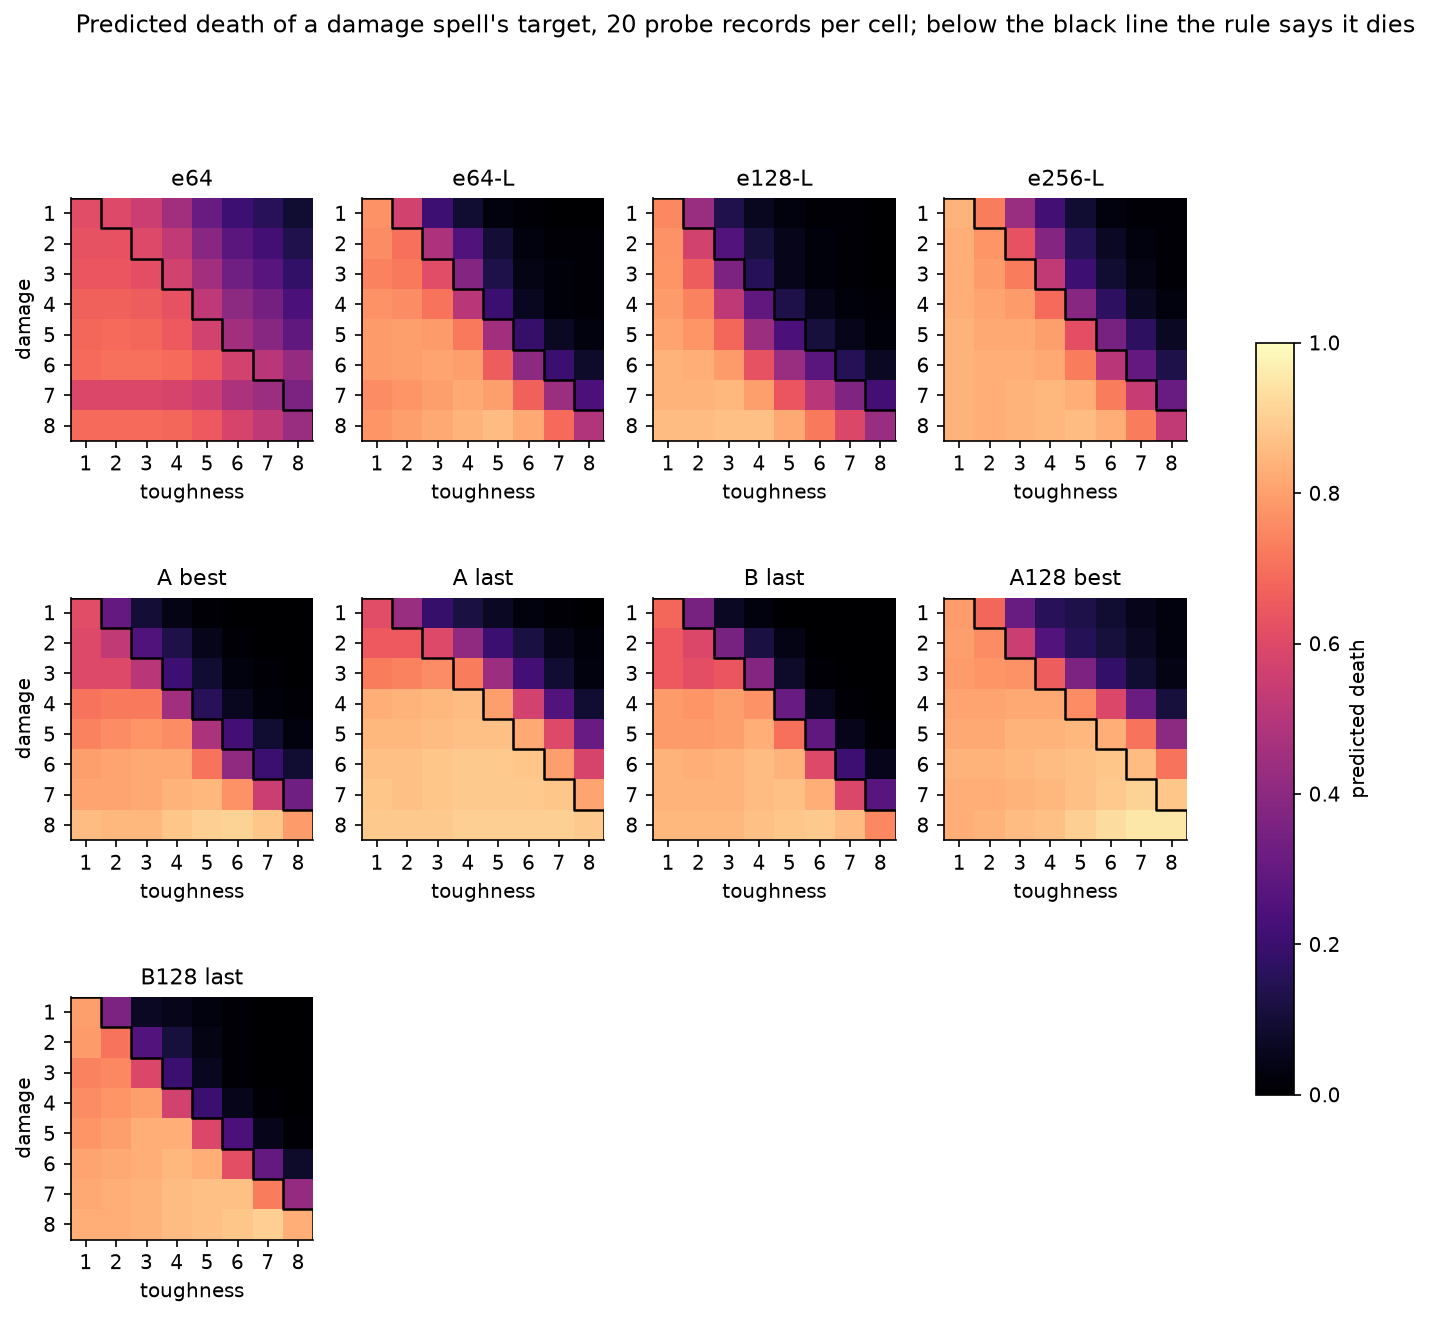
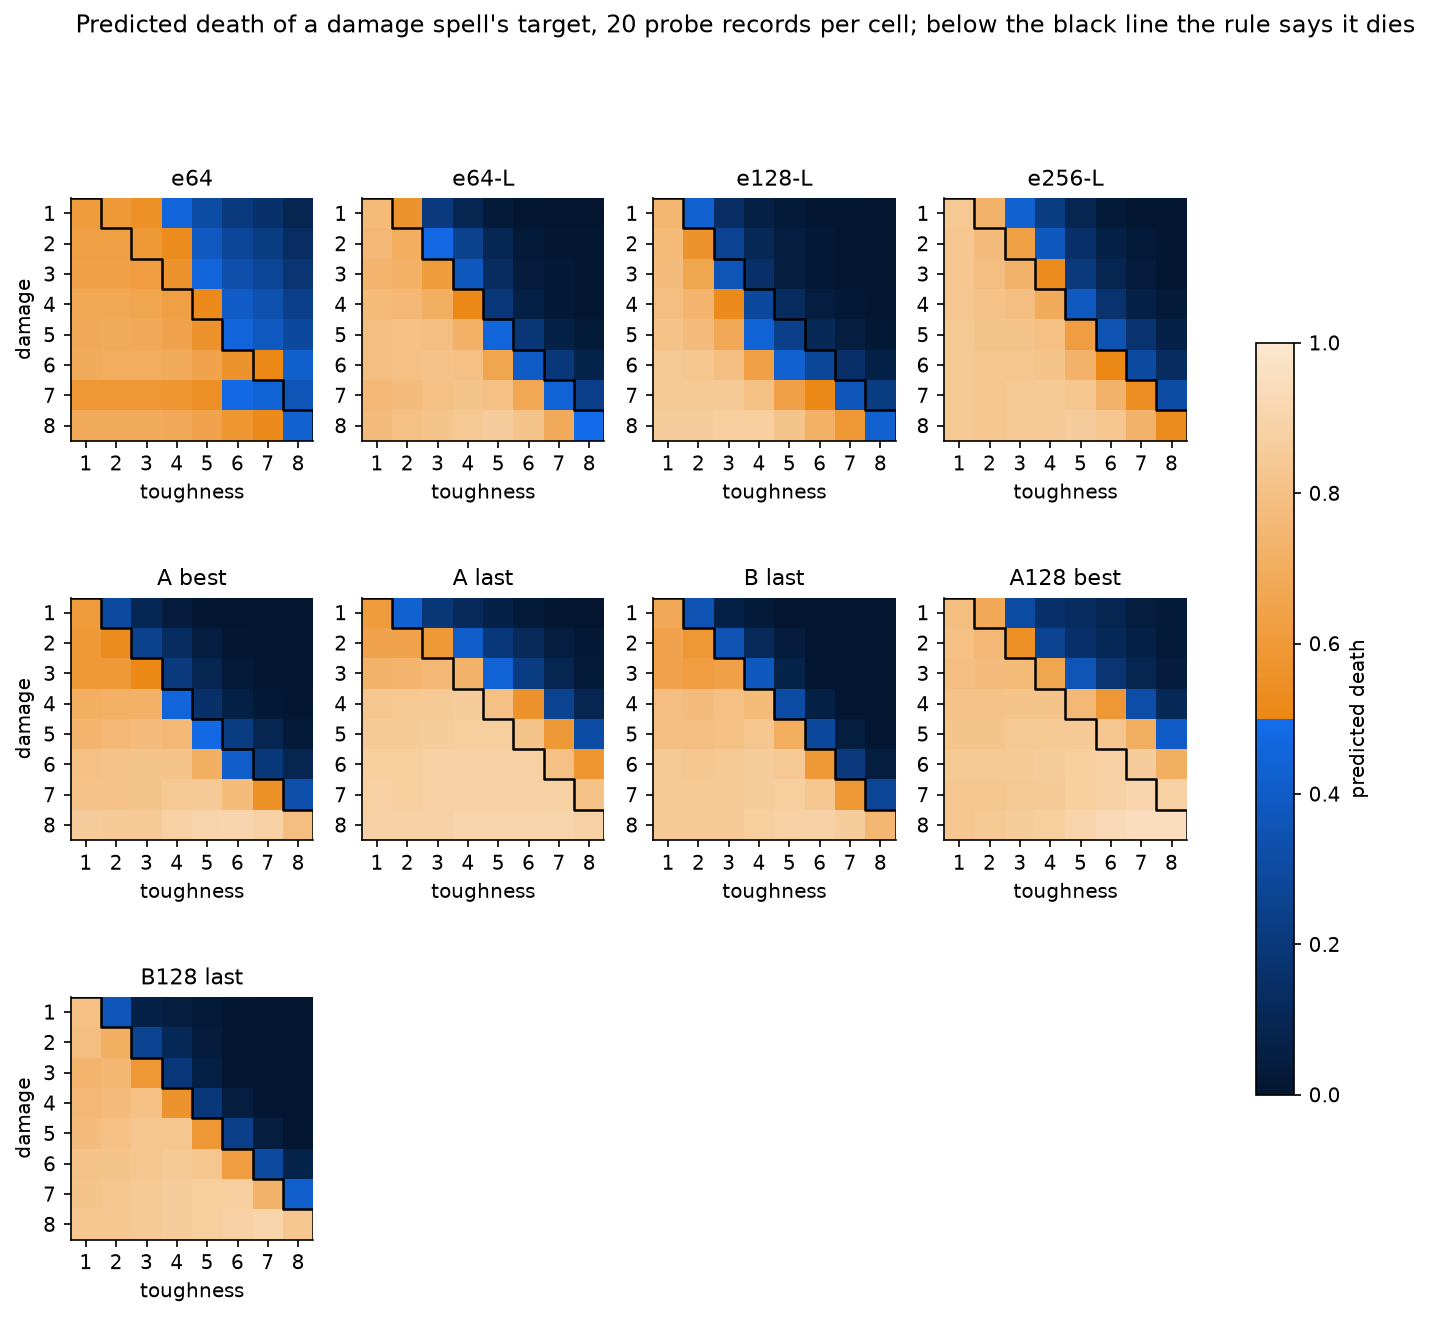
docs(effects): death heatmaps switch hue at one half, blue below and orange above, with brightness rising throughout

diff --git a/scripts/effect_gen2_report/make_charts.py b/scripts/effect_gen2_report/make_charts.py
@@ -87,13 +87,32 @@ def rule_staircase(ax, offset: float = 0.0) -> None:
     ax.plot(xs, ys, color="black", lw=1.2)
 
 
+def _death_colourmap() -> matplotlib.colors.ListedColormap:
+    """Brightness rises steadily from 0 to 1; the hue flips from blue to orange at 0.5.
+
+    The hue break marks the even-odds line at a glance, and the continuous brightness
+    keeps the order of the values readable on either side of it.
+    """
+    import colorsys
+
+    colours = []
+    for v in np.linspace(0, 1, 256):
+        lightness = 0.10 + 0.80 * v
+        hue = 215 / 360 if v < 0.5 else 32 / 360
+        colours.append(colorsys.hls_to_rgb(hue, lightness, 0.85))
+    return matplotlib.colors.ListedColormap(colours, name="death")
+
+
+DEATH_CMAP = _death_colourmap()
+
+
 def colourbar(fig, axes) -> None:
-    sm = matplotlib.cm.ScalarMappable(cmap="magma", norm=matplotlib.colors.Normalize(0, 1))
+    sm = matplotlib.cm.ScalarMappable(cmap=DEATH_CMAP, norm=matplotlib.colors.Normalize(0, 1))
     fig.colorbar(sm, ax=axes, shrink=0.7, label="predicted death")
 
 
 def heatmap(ax, grid: np.ndarray, title: str, xlabel: str, ylabel: str) -> None:
-    ax.imshow(grid, cmap="magma", vmin=0, vmax=1, origin="upper")
+    ax.imshow(grid, cmap=DEATH_CMAP, vmin=0, vmax=1, origin="upper")
     ax.set_xticks(range(8), range(1, 9))
     ax.set_yticks(range(8), range(1, 9))
     ax.set_xlabel(xlabel)

diff --git a/experiments/2026-09-18-effect-model-gen2-improvements-design.md b/experiments/2026-09-18-effect-model-gen2-improvements-design.md
@@ -22,7 +22,7 @@ All the data behind the tables and charts is in [`2026-09-18-effect-model-gen2/`
 
 ![Predicted death of a damage spell's target, by damage and toughness, across the arms and continuation runs](2026-09-18-effect-model-gen2/charts/damage-grids.png)
 
-*Each cell is the predicted death of a damage spell's target, averaged over 20 real records with the spell's damage and the target's toughness edited. The rule says the target dies on and below the black staircase. Arm `e64` trained without copies; every other panel trained with them. Data: `damage_grids.csv`.*
+*Each cell is the predicted death of a damage spell's target, averaged over 20 real records with the spell's damage and the target's toughness edited. Orange cells predict a death more likely than not and blue cells less likely, brighter meaning more likely on both sides. The rule says the target dies on and below the black staircase. Arm `e64` trained without copies; every other panel trained with them. Data: `damage_grids.csv`.*
 
 **Where the lethal boundary sits wanders from epoch to epoch at the full learning rate, and settles near the rule at a tenth of it.** Twenty more epochs at the same rate sharpen the boundary but move its position by up to a point of damage between consecutive epochs. A tenth of the rate holds it in a narrow band near the rule, from whichever checkpoint the run starts ([the boundary](#where-the-boundary-sits-wanders-between-epochs-at-the-full-learning-rate-and-settles-near-the-rule-at-a-tenth-of-it)).
 
@@ -147,7 +147,7 @@ The combat grid asks the same question of a block that the damage grid asks of a
 
 ![Combat grids of run B's last epoch: plain blocker and attacker deaths, deathtouch, and first strike](2026-09-18-effect-model-gen2/charts/combat-grids.png)
 
-*Run B's last epoch. Rule: without keywords, the creature read dies on and below the staircase; with deathtouch every cell dies; in the first-strike step a first-striking attacker cannot die. Data: `combat_grids.csv`.*
+*Run B's last epoch, coloured as the damage grids: orange above an even chance of death, blue below. Rule: without keywords, the creature read dies on and below the staircase; with deathtouch every cell dies; in the first-strike step a first-striking attacker cannot die. Data: `combat_grids.csv`.*
 
 Every checkpoint gets the direction of the plain rule right, with a boundary blurred over two to three points of toughness, as soft as the damage grid's. The attacker's death sits further from the rule than the blocker's on every checkpoint. The likely reason is in the data: a combat record's snapshot is taken at the step's first damage event, so the creature damaged first already shows that damage. In 26 of the 40 blocks the blocker is marked with exactly the attacker's power, and the attacker is never marked. When the lethal damage is already on the board, every checkpoint predicts the death nine times in ten or more; when the model must add the opposing power itself, it is far less sure. The grid clears both creatures' marked damage before editing, and gen-3 moves the snapshot to the start of the damage step.
 
